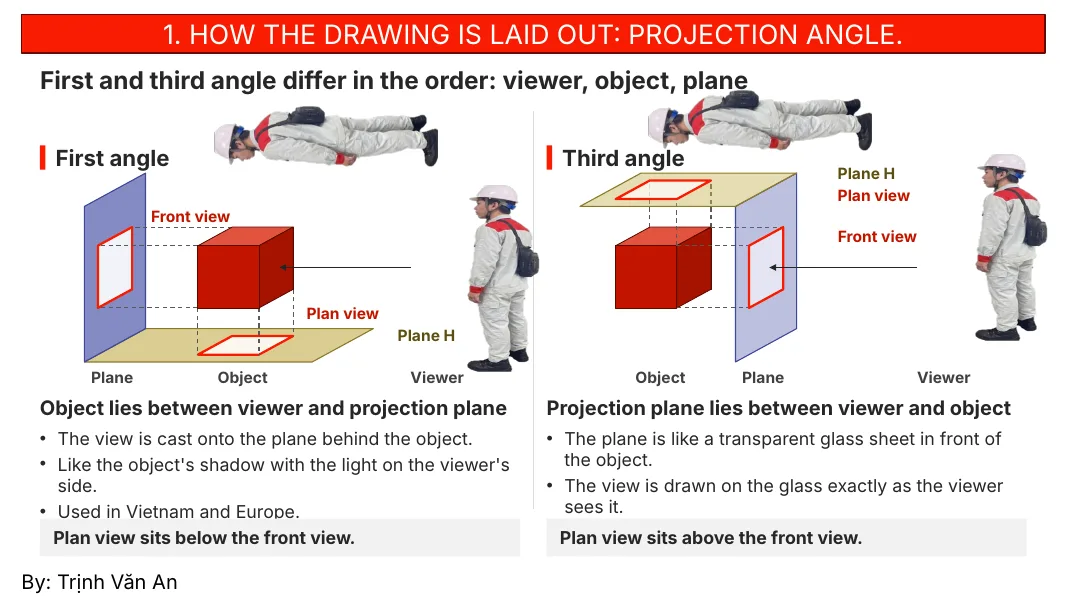
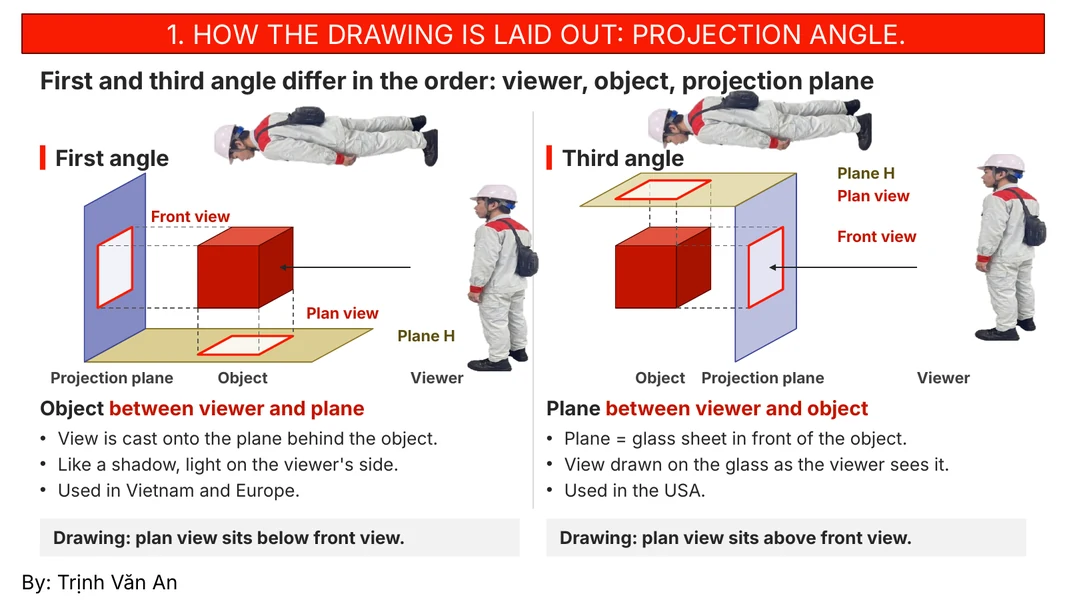
Add files via upload

diff --git a/kien-thuc-goc-chieu-thu-nhat-va-goc-chieu-thu-ba.html b/kien-thuc-goc-chieu-thu-nhat-va-goc-chieu-thu-ba.html
@@ -60,13 +60,24 @@
 <li>Góc thứ nhất: vật nằm giữa người nhìn và mặt chiếu, hình chiếu in lên mặt phía sau vật, giống bóng của vật khi chiếu đèn từ phía người nhìn. Dùng ở Việt Nam và châu Âu (ISO). Trên bản vẽ, hình chiếu bằng nằm <b>dưới</b> hình đứng.</li>
 <li>Góc thứ ba: mặt chiếu nằm giữa người nhìn và vật, giống tấm kính trong suốt đặt trước vật; hình chiếu vẽ lên kính đúng như người nhìn thấy. Dùng ở Mỹ (ASME). Trên bản vẽ, hình chiếu bằng nằm <b>trên</b> hình đứng.</li>
 </ul>
+<figure class="post-hero"><img src="kien-thuc-goc-chieu-thu-nhat-va-goc-chieu-thu-ba-img8.webp" alt="Góc thứ nhất và góc thứ ba khác nhau ở thứ tự: người nhìn, vật, mặt chiếu" width="1067" height="600" loading="lazy"/><figcaption style="text-align:center;font-size:13px;color:#6b7391;margin-top:8px">Góc thứ nhất và góc thứ ba khác nhau ở thứ tự: người nhìn, vật, mặt chiếu</figcaption></figure>
 <h2>Nhận biết bằng ký hiệu ở khung tên</h2>
 <p>Ký hiệu góc chiếu nằm ở khung tên bản vẽ. Với góc thứ nhất, đầu nhỏ của hình nón cụt quay ra xa hai vòng tròn; với góc thứ ba, đầu nhỏ quay về phía hai vòng tròn.</p>
 <figure class="post-hero"><img src="kien-thuc-goc-chieu-thu-nhat-va-goc-chieu-thu-ba-img3.webp" alt="Ký hiệu góc chiếu ở khung tên cho biết cách đọc bản vẽ" width="1067" height="600" loading="lazy"/><figcaption style="text-align:center;font-size:13px;color:#6b7391;margin-top:8px">Ký hiệu góc chiếu ở khung tên cho biết cách đọc bản vẽ</figcaption></figure>
 <h2>Cách &quot;hộp sáu mặt&quot; giúp nhớ</h2>
-<p>Hãy tưởng tượng đặt vật vào trong một hộp chữ nhật, các mặt hộp là các mặt phẳng chiếu. Ở góc thứ nhất, hình chiếu in lên mặt hộp phía sau vật, nên các hình chiếu bị ngược: hình từ phía trước nằm phía sau vật, hình từ phía trên nằm phía dưới vật, hình từ bên phải nằm bên trái vật.</p>
+<p>Hãy tưởng tượng đặt vật cần chiếu vào trong một hộp chữ nhật. Các mặt của hộp chính là các mặt phẳng chiếu.</p>
+<figure class="post-hero"><img src="kien-thuc-goc-chieu-thu-nhat-va-goc-chieu-thu-ba-img9.webp" alt="Góc thứ nhất: đặt vật vào hộp, các mặt hộp là mặt phẳng chiếu" width="1067" height="600" loading="lazy"/><figcaption style="text-align:center;font-size:13px;color:#6b7391;margin-top:8px">Góc thứ nhất: đặt vật vào hộp, các mặt hộp là mặt phẳng chiếu</figcaption></figure>
+<p>Vật được nhìn từ sáu phía: phía trước, phía sau, bên trên, bên dưới, bên trái và bên phải.</p>
+<figure class="post-hero"><img src="kien-thuc-goc-chieu-thu-nhat-va-goc-chieu-thu-ba-img10.webp" alt="Góc thứ nhất: đặt vật trong hộp, nhìn từ 6 phía" width="1067" height="600" loading="lazy"/><figcaption style="text-align:center;font-size:13px;color:#6b7391;margin-top:8px">Góc thứ nhất: đặt vật trong hộp, nhìn từ 6 phía</figcaption></figure>
+<p>Ở góc thứ nhất, hình chiếu in lên mặt hộp phía sau vật, sau đó các mặt hộp được mở ra.</p>
+<figure class="post-hero"><img src="kien-thuc-goc-chieu-thu-nhat-va-goc-chieu-thu-ba-img11.webp" alt="Góc thứ nhất: hình chiếu in lên mặt hộp phía sau vật, mở các mặt ra" width="1067" height="600" loading="lazy"/><figcaption style="text-align:center;font-size:13px;color:#6b7391;margin-top:8px">Góc thứ nhất: hình chiếu in lên mặt hộp phía sau vật, mở các mặt ra</figcaption></figure>
+<p>Khi trải phẳng các mặt về mặt phía sau, các hình chiếu bị ngược: hình từ phía trước nằm phía sau vật, hình từ phía trên nằm phía dưới vật, hình từ bên phải nằm bên trái vật.</p>
 <figure class="post-hero"><img src="kien-thuc-goc-chieu-thu-nhat-va-goc-chieu-thu-ba-img4.webp" alt="Góc thứ nhất: trải phẳng các mặt hộp về mặt phía sau" width="1067" height="600" loading="lazy"/><figcaption style="text-align:center;font-size:13px;color:#6b7391;margin-top:8px">Góc thứ nhất: trải phẳng các mặt hộp về mặt phía sau</figcaption></figure>
-<p>Ở góc thứ ba, hình chiếu in lên mặt hộp phía trước vật, nên các hình nằm cùng phía với phía của vật: hình chiếu đứng từ phía trước nằm phía trước, hình chiếu bằng từ trên xuống nằm phía trên.</p>
+<p>Ở góc thứ ba, vật được đặt trong một hộp kính và cũng được nhìn từ sáu phía.</p>
+<figure class="post-hero"><img src="kien-thuc-goc-chieu-thu-nhat-va-goc-chieu-thu-ba-img12.webp" alt="Góc thứ ba: đặt vật trong hộp kính, nhìn từ 6 phía" width="1067" height="600" loading="lazy"/><figcaption style="text-align:center;font-size:13px;color:#6b7391;margin-top:8px">Góc thứ ba: đặt vật trong hộp kính, nhìn từ 6 phía</figcaption></figure>
+<p>Hình chiếu in lên mặt hộp phía trước vật, sau đó các mặt hộp được mở ra.</p>
+<figure class="post-hero"><img src="kien-thuc-goc-chieu-thu-nhat-va-goc-chieu-thu-ba-img13.webp" alt="Góc thứ ba: hình chiếu in lên mặt hộp phía trước vật, mở các mặt ra" width="1067" height="600" loading="lazy"/><figcaption style="text-align:center;font-size:13px;color:#6b7391;margin-top:8px">Góc thứ ba: hình chiếu in lên mặt hộp phía trước vật, mở các mặt ra</figcaption></figure>
+<p>Khi trải phẳng các mặt về mặt phía trước, các hình nằm cùng phía với phía của vật: hình chiếu đứng từ phía trước nằm phía trước, hình chiếu bằng từ trên xuống nằm phía trên.</p>
 <figure class="post-hero"><img src="kien-thuc-goc-chieu-thu-nhat-va-goc-chieu-thu-ba-img6.webp" alt="Góc thứ ba: trải phẳng các mặt hộp về mặt phía trước" width="1067" height="600" loading="lazy"/><figcaption style="text-align:center;font-size:13px;color:#6b7391;margin-top:8px">Góc thứ ba: trải phẳng các mặt hộp về mặt phía trước</figcaption></figure>
 <h2>Hai quy tắc dùng ngay tại hiện trường</h2>
 <ul>
@@ -91,6 +102,7 @@
 <li>Quadrant 3: object below H, behind V. Used.</li>
 <li>Quadrant 4: object below H, in front of V. Not used.</li>
 </ul>
+<figure class="post-hero"><img src="kien-thuc-goc-chieu-thu-nhat-va-goc-chieu-thu-ba-img1-en.webp" alt="Two projection planes divide space into four quadrants" width="1067" height="600" loading="lazy"/><figcaption style="text-align:center;font-size:13px;color:#6b7391;margin-top:8px">Two projection planes divide space into four quadrants</figcaption></figure>
 <h2>Why quadrants 2 and 4 are dropped</h2>
 <p>In quadrant 1 the front half of plane H rotates down, so the plan view lands below line X, separate from the front view. In quadrant 2 the rear half rotates up, so the plan view lands above line X and overlaps the front view. Quadrant 3 behaves like 1 (the two views stay apart), and quadrant 4 like 2 (both views end up below X, overlapping).</p>
 <figure class="post-hero"><img src="kien-thuc-goc-chieu-thu-nhat-va-goc-chieu-thu-ba-img2-en.webp" alt="Quadrant 2 is dropped because the two views overlap when unfolded" width="1067" height="600" loading="lazy"/><figcaption style="text-align:center;font-size:13px;color:#6b7391;margin-top:8px">Quadrant 2 is dropped because the two views overlap when unfolded</figcaption></figure>
@@ -99,13 +111,24 @@
 <li>First angle: the object lies between the viewer and the projection plane, and the view is cast onto the plane behind the object, like its shadow with the light on the viewer's side. Used in Vietnam and Europe (ISO). On the drawing the plan view sits <b>below</b> the front view.</li>
 <li>Third angle: the projection plane lies between the viewer and the object, like a glass sheet in front of it; the view is drawn on the glass exactly as the viewer sees it. Used in the USA (ASME). On the drawing the plan view sits <b>above</b> the front view.</li>
 </ul>
+<figure class="post-hero"><img src="kien-thuc-goc-chieu-thu-nhat-va-goc-chieu-thu-ba-img8-en.webp" alt="First and third angle differ in the order: viewer, object, projection plane" width="1067" height="600" loading="lazy"/><figcaption style="text-align:center;font-size:13px;color:#6b7391;margin-top:8px">First and third angle differ in the order: viewer, object, projection plane</figcaption></figure>
 <h2>Recognising it from the title-block symbol</h2>
 <p>The projection symbol is in the drawing's title block. For first angle, the small end of the truncated cone points away from the two circles; for third angle, it points towards the two circles.</p>
 <figure class="post-hero"><img src="kien-thuc-goc-chieu-thu-nhat-va-goc-chieu-thu-ba-img3-en.webp" alt="The projection symbol in the title block tells you how to read the drawing" width="1067" height="600" loading="lazy"/><figcaption style="text-align:center;font-size:13px;color:#6b7391;margin-top:8px">The projection symbol in the title block tells you how to read the drawing</figcaption></figure>
 <h2>The six-sided box trick</h2>
-<p>Imagine the object inside a rectangular box whose faces are the projection planes. In first angle the view is cast onto the face behind the object, so the views come out reversed: the front view lies behind the object, the top view below it, the right view on its left.</p>
+<p>Imagine the object to be projected placed inside a rectangular box. The faces of the box are the projection planes.</p>
+<figure class="post-hero"><img src="kien-thuc-goc-chieu-thu-nhat-va-goc-chieu-thu-ba-img9-en.webp" alt="First angle: the object inside a box whose faces are the projection planes" width="1067" height="600" loading="lazy"/><figcaption style="text-align:center;font-size:13px;color:#6b7391;margin-top:8px">First angle: the object inside a box whose faces are the projection planes</figcaption></figure>
+<p>The object is viewed from six sides: front, back, top, bottom, left and right.</p>
+<figure class="post-hero"><img src="kien-thuc-goc-chieu-thu-nhat-va-goc-chieu-thu-ba-img10-en.webp" alt="First angle: the object inside the box, viewed from 6 sides" width="1067" height="600" loading="lazy"/><figcaption style="text-align:center;font-size:13px;color:#6b7391;margin-top:8px">First angle: the object inside the box, viewed from 6 sides</figcaption></figure>
+<p>In first angle each view is cast onto the box face behind the object, then the faces are opened out.</p>
+<figure class="post-hero"><img src="kien-thuc-goc-chieu-thu-nhat-va-goc-chieu-thu-ba-img11-en.webp" alt="First angle: each view is cast onto the box face behind the object, then the faces are opened out" width="1067" height="600" loading="lazy"/><figcaption style="text-align:center;font-size:13px;color:#6b7391;margin-top:8px">First angle: each view is cast onto the box face behind the object, then the faces are opened out</figcaption></figure>
+<p>Unfolded onto the rear face, the views come out reversed: the front view lies behind the object, the top view below it, the right view on its left.</p>
 <figure class="post-hero"><img src="kien-thuc-goc-chieu-thu-nhat-va-goc-chieu-thu-ba-img4-en.webp" alt="First angle: unfolding the box faces onto the rear face" width="1067" height="600" loading="lazy"/><figcaption style="text-align:center;font-size:13px;color:#6b7391;margin-top:8px">First angle: unfolding the box faces onto the rear face</figcaption></figure>
-<p>In third angle the view is cast onto the face in front of the object, so each view sits on the same side as the side it shows: the front view lies in front, the plan view above.</p>
+<p>In third angle the object sits inside a glass box and is also viewed from six sides.</p>
+<figure class="post-hero"><img src="kien-thuc-goc-chieu-thu-nhat-va-goc-chieu-thu-ba-img12-en.webp" alt="Third angle: the object inside a glass box, viewed from 6 sides" width="1067" height="600" loading="lazy"/><figcaption style="text-align:center;font-size:13px;color:#6b7391;margin-top:8px">Third angle: the object inside a glass box, viewed from 6 sides</figcaption></figure>
+<p>Each view is cast onto the box face in front of the object, then the faces are opened out.</p>
+<figure class="post-hero"><img src="kien-thuc-goc-chieu-thu-nhat-va-goc-chieu-thu-ba-img13-en.webp" alt="Third angle: each view is cast onto the box face in front of the object, then the faces are opened out" width="1067" height="600" loading="lazy"/><figcaption style="text-align:center;font-size:13px;color:#6b7391;margin-top:8px">Third angle: each view is cast onto the box face in front of the object, then the faces are opened out</figcaption></figure>
+<p>Unfolded onto the front face, each view sits on the same side as the side it shows: the front view lies in front, the plan view above.</p>
 <figure class="post-hero"><img src="kien-thuc-goc-chieu-thu-nhat-va-goc-chieu-thu-ba-img6-en.webp" alt="Third angle: unfolding the box faces onto the front face" width="1067" height="600" loading="lazy"/><figcaption style="text-align:center;font-size:13px;color:#6b7391;margin-top:8px">Third angle: unfolding the box faces onto the front face</figcaption></figure>
 <h2>Two rules you can use on the shop floor</h2>
 <ul>
